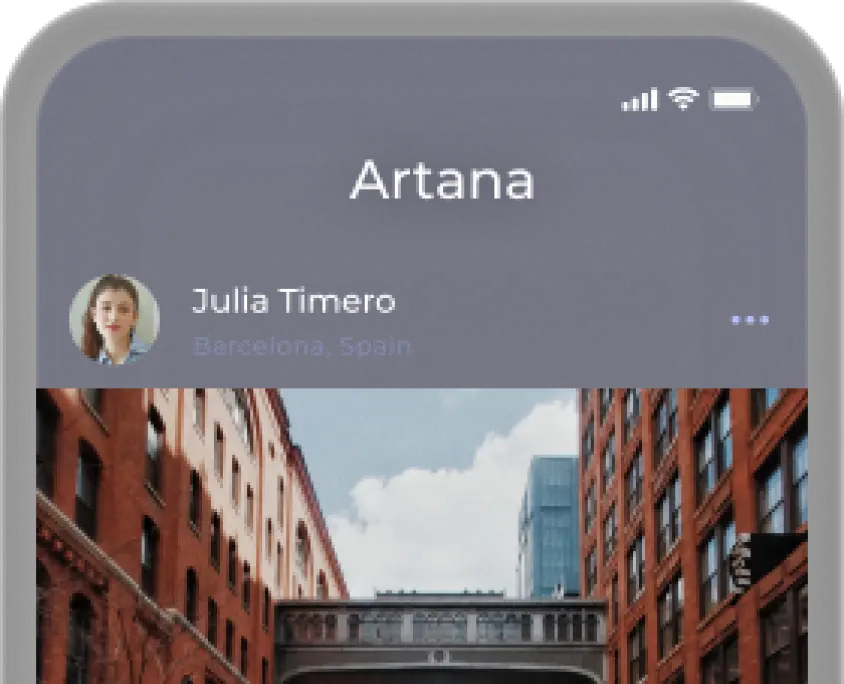
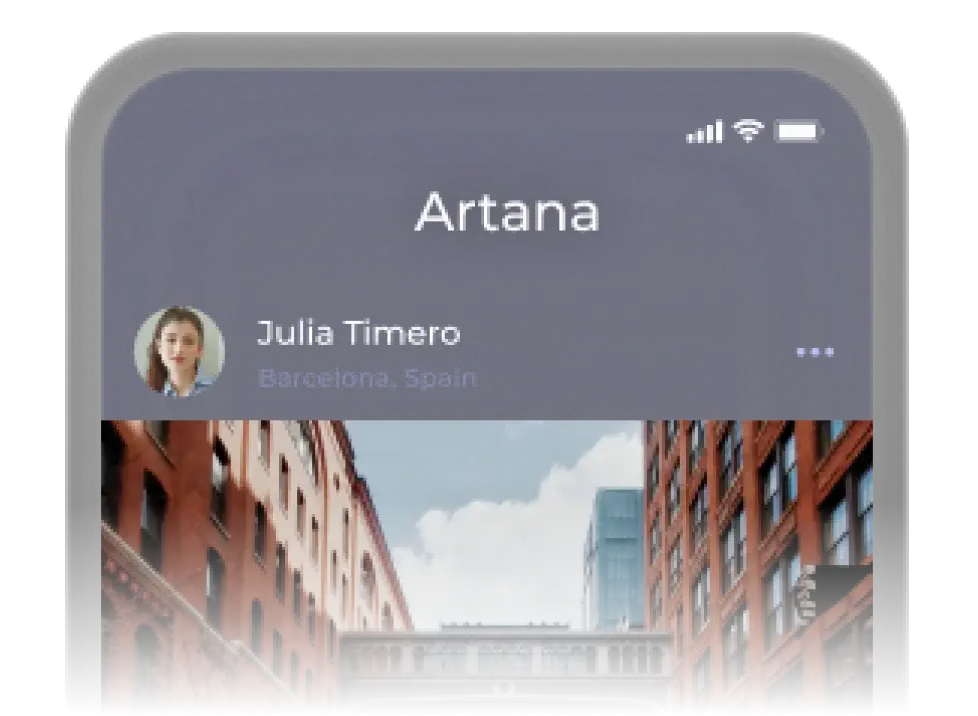
🎨

diff --git a/src/routes/+page.svelte b/src/routes/+page.svelte
@@ -8,12 +8,10 @@
 
 <div class="flex min-h-screen flex-col bg-[#1D183A] bg-[url('/bg.webp')] bg-cover bg-no-repeat">
 	<main class="mx-auto flex w-full max-w-screen-xl grow flex-col items-center px-6">
-		<h1
-			class="center mt-16 font-montserrat text-[60px] font-medium text-white md:mt-40 md:text-[100px]"
-		>
-			Artana
+		<h1 class="center mb-6 mt-16 md:mt-40">
+			<img src="/logo.png" alt="Artana" class="max-w-[280px] md:max-w-[402px]" />
 		</h1>
-		<h3 class="center mb-12 max-w-lg text-center font-montserrat text-xl text-[#fafafa]">
+		<h3 class="center mb-12 max-w-lg text-center font-montserrat text-[24px] text-[#fafafa]">
 			WHERE BLOCKCHAIN MEETS SOCIAL ART
 		</h3>
 		<a
@@ -24,7 +22,7 @@
 		<img
 			src="/phone.webp"
 			alt="Artana on a phone"
-			class="mx-auto mb-16 mt-32 block w-full max-w-[420px]"
+			class="mx-auto mb-16 mt-28 block w-full max-w-[489px]"
 		/>
 	</main>
 	<footer
